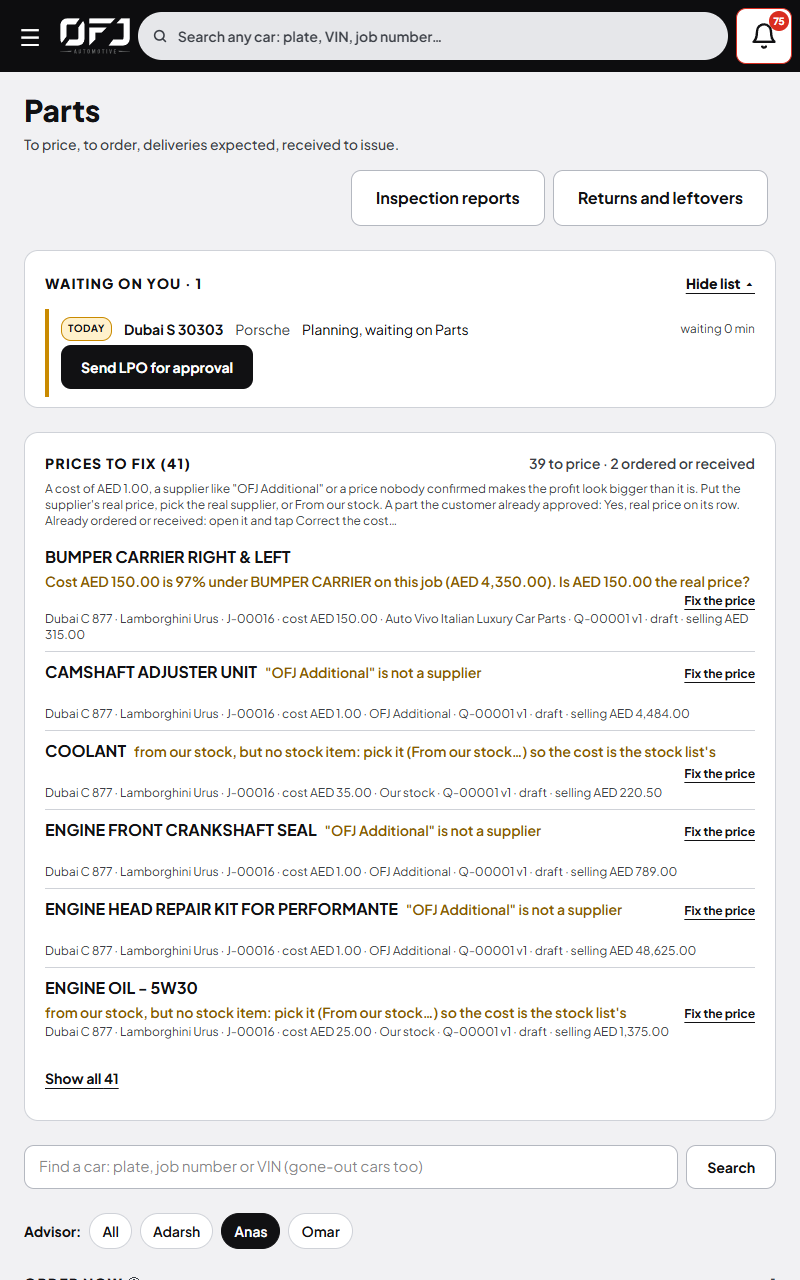
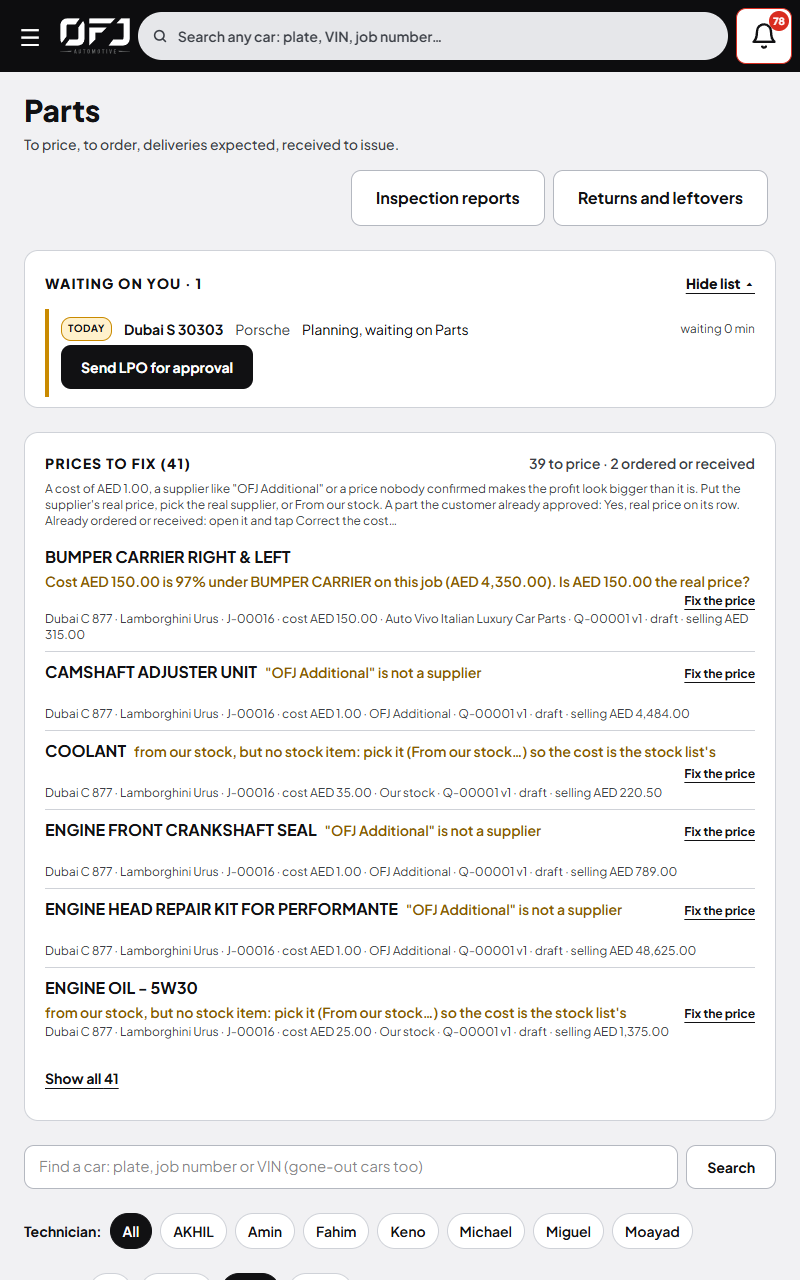
Wide-screen parts table: the part number column fits a 22-character number (found by test-f); queued test fixes: test-t to today's rules, test-c, test-g, test-f, test-s3-payreport; the old Send LPO steps use the tick-list helper; the simulation's own time cap for 25 paths; batch note and handover.

diff --git a/src/app/(app)/parts/[jobId]/PartsTable.tsx b/src/app/(app)/parts/[jobId]/PartsTable.tsx
@@ -133,7 +133,7 @@ type EstimateDesk = { id: string; number: string; preparing: boolean; /** Sent b
 // minimum on two lines went from 10rem to 9rem, the two-line Availability from 9.5rem to 9rem, Disc % from 3.25rem
 // to 3rem and the gaps from 6 to 4 px to pay for it (at 1366 the table had scrolled 29 px sideways, at 1920 7 px), so a
 // name like "AIR SUSPENSION STRUT" still wraps on two lines within the row.
-const GRID = "grid grid-cols-2 md:grid-cols-[minmax(9rem,14rem)_8.25rem_4.25rem_3rem_5.25rem_14rem_9rem_5rem_2.5rem] min-[110rem]:grid-cols-[minmax(12rem,16rem)_8.25rem_17.5rem_11.5rem_4.25rem_3.25rem_5.25rem_14rem_11rem_5rem_2.5rem] gap-x-1 gap-y-1 items-center";
+const GRID = "grid grid-cols-2 md:grid-cols-[minmax(9rem,14rem)_8.25rem_4.25rem_3rem_5.25rem_14rem_9rem_5rem_2.5rem] min-[110rem]:grid-cols-[minmax(10.5rem,14.5rem)_8.25rem_19rem_11.5rem_4.25rem_3.25rem_5.25rem_14rem_11rem_5rem_2.5rem] gap-x-1 gap-y-1 items-center";
 const SECOND_LINE = "col-span-2 md:col-span-4 md:order-2 min-[110rem]:col-span-1 min-[110rem]:order-none";
 const STATUS_LINE = "col-span-2 md:col-span-9 min-[110rem]:col-span-11 md:order-3";
 /** Money for the cost bar and the line totals. */

diff --git a/docs/status-8-nov.md b/docs/status-8-nov.md
@@ -1,0 +1,46 @@
+# Status – 8 November 2026
+
+From git log, `docs/handover.md`, `docs/waiting-for-apply.md` and the queue notes. Nothing was built, tested or changed for this answer.
+
+1. **LIVE** – ff1a7c8, 6 Nov (Section 1). The carry-over bell data fix was applied on 7 Nov (0716a52).
+2. **NEVER RECEIVED** – nothing in git or the notes for "send LPO for selected parts" or "repeated part numbers like 1234AA". Related, already live: a cost under AED 5 asks "Real price?" and blocks the LPO (2 Nov); Send LPO names unfinished lines (1 Nov).
+3. **NEVER RECEIVED** – an LPO is still approved whole and split by supplier afterwards; only refusing one line exists (1 Nov). Nothing gives a job with no advisor the quotation's advisor (the parts pages show "quotation by X", dca0ed5).
+4. **LIVE** – bb27363, 6 Nov (Section 2).
+5. **NEVER RECEIVED** – nothing for removing a wrong scan report or an Autel check when attaching. Related, live: Fix 1 (603ef5d, 4 Nov), Autel reports reach the technician's Step 1 with no duplicates.
+6. **LIVE** – c188ff3, 6 Nov (Section 4); migration applied 7 Nov (0716a52). Covers the payment link method, amount, payment date, advance/fee and one payment across several invoices.
+7. **NEVER RECEIVED** (this change) – the settlement date box exists since 27 Oct (c65b7ff) but still starts at today's date.
+8. **LIVE** – 42d7864, 6 Nov (Section 3).
+9. **PARTLY** – to the fils and the true read-back check are live (6e097ee, 6 Nov). LPO-00045-1 waits for your "Check again in Zoho" press. STL-00012: the bank took 2.25%, not the set link rate; that needs Network International's answer or a rate change from you.
+10. **PARTLY** – QR, no left cut (one label per PDF page, zero margins), Test label and printing tips are live (7409e5e, 6 Nov; first half 3655d16, 5 Nov). No separate self-check feature was found, only the automated test. Peter's test print is still to do.
+11. **LIVE** – 505f2ea, 6 Nov (Section 6).
+12. **NEVER RECEIVED** – the advisor's name is on the parts pages (dca0ed5, 6 Nov), not the technician's. The only parts bell to the technician is the 2-hour "not received" reminder (since 18 Oct).
+13. **NEVER RECEIVED** – returns, "credit note awaited" and the Zoho vendor credit are live since 3 Nov, but there are no PR- documents.
+14. **LIVE** – 89b2ad3, 6 Nov (Section 7); the How-to-address migration was applied 7 Nov.
+15. **LIVE** – 16bf17a, 6 Nov (Section 9); the lockdown migration was applied 7 Nov.
+16. **LIVE** – 603ef5d (Autel reports to the technician's Step 1; the mailbox is read with nobody signed in) and 0972039 (Print internal), both 4 Nov.
+17. **NEVER RECEIVED** – thumbnails still use Supabase image transformations (`src/lib/media-urls.ts`).
+18. **PARTLY** – the code items are live (14f6e33 and 9bad65d, 6 Nov; M15 ea90e8c, 7 Nov). L1 and L4 were applied 7 Nov; leaked-password protection went on 8 Nov with the passkeys. Left for people: H3's other half (Zoho time zone, Mathew), M9 (terminal IDs empty), M10 (one clearing account for card and link), M11 (LPO-00035-2 dated 2016), M12 (STL-00005 method/fee mismatch).
+19. **IN QUEUE** – part 1 is live (e854e09, 5 Nov). Part 2 waits for your Backblaze key ("key saved"). Nothing was run.
+
+**A. In the queue, not on your list:** only test fixes; the product is unaffected (test-t rewrite; stale old sections in test-c, test-g C and test-f C@1920; test-s3-payreport timing on this PC).
+Done and live, not on your list:
+- Login security upgrade (passkeys): 7fdac30, 8 Nov, on for you only.
+- Plate can be added: 3329ef2, 6 Nov.
+- Advisor on parts pages: dca0ed5, 6 Nov.
+- 5 Nov: supplier invoice edit (f59f4b9), enter price myself (f5cb259), resend for approval (bb44576), revise at the top (36db402), supplier amounts with VAT (255655a).
+
+**B. Built but not asked for / rolled back:** nothing rolled back. Nothing unasked beyond small supporting fixes found by tests (for example 47de76d). The notes commit c3101ec is not pushed yet, on purpose: Vercel's one-click rollback only reaches the previous version, which must stay the one from before the passkeys.
+
+**C. WAITING FOR APPLY:** nothing.
+
+**D. NEEDS OMAR:**
+1. Backblaze key, then reply "key saved".
+2. Mathew: set both Zoho organisations' time zone to Asia/Dubai.
+3. Zoho Books → Posted → the red LPO-00045-1 row → "Check again in Zoho".
+4. One real supplier payment through "Sync to Zoho", checked once in OFJ TEST.
+5. Passkeys: try your phone at an office PC, then Sign-ins → "Everyone in the passkey roles" → Save, and give staff the guide.
+6. Network International: why STL-00012's link payment cost 2.25%.
+7. Peter: print the Test label.
+8. Audit items for people: M9 to M12 (item 18).
+
+**E. This minute:** nothing is running. This status answer is the only work. Nothing more is queued until you send "key saved", switch passkeys on for everyone, or send a new task.

diff --git a/docs/handover.md b/docs/handover.md
@@ -1,14 +1,17 @@
-# Handover – 8 November 2026
-**Status:** the 9-section batch, the A/B status check and the rest of the audit are done and live; only the items below wait for you.
-**Live (6–7 Nov):** estimate carry-over · resend quote · parts desk edits after sending · supplier payments (on with apply #2) · Zoho to the fils · jobs sorting · small preview + greeting · part labels 50 × 25 · gate-in check · audit H3 code, M1, M3, M6–M8, M13–M15, L2, L3, L6, sim rule. A/B were already live (603ef5d, 0972039). Notes: `docs/*-6-nov-note.md`, `docs/audit-rest-6-nov-note.md`.
-**WAITING FOR APPLY:** nothing. The passkeys were applied on 8 Nov morning (push 7fdac30, migration, live password settings; backup `backups/2026-11-08T05-47-43`; check:live 33/33). Passkeys are ON FOR THE OWNER ONLY until he switches Team › Sign-ins to Everyone.
+# Handover – 8 November 2026 (night)
+
 **NEEDS OMAR:**
-1. Backblaze key → **"key saved"** (backups part 2).
-2. Mathew: set **both Zoho orgs' time zone to Asia/Dubai** (H3's other half).
-3. Zoho Books → Posted → red **LPO-00045-1** row → **Check again in Zoho** (re-posts 1,011.00 in OFJ TEST).
-4. Now that supplier payments are on: one real supplier payment through **Sync to Zoho**, checked once in OFJ TEST.
-5. Passkeys: try your phone at an office PC (Sign in with passkey), then Team › Sign-ins › Everyone › Save; give staff the guide (docs/passkey-staff-guide.md).
-6. Network International: why STL-00012's link payment cost **2.25%** (or change the link rate on Card settlements → Bank fees).
-7. Peter: print the **Test label**, follow `docs/part-labels-guide-for-peter.md`.
-**Assumption:** no title typed → greeted by first name ("Dear Dhia,"); a "How to address" changes it.
-**Left (tests only, product fine):** test-t rewrite; stale old sections in test-c (4), test-g C (bulk delete now asks the ending), test-f C@1920 (1); test-s3-payreport E1/H2/H3 timing on this PC.
+1. **Backup key copy:** `OFJ-BACKUP-KEY.txt` is on your Desktop (same key as GitHub, fingerprint ecfbe604). Put it in your password manager, print it for the safe, then delete the file.
+2. **Move the PC's 20 GB `backups/` folder off-site:** the Backblaze key is only in GitHub (unreadable). Either paste the three B2 values into `.env.local` as `B2_KEY_ID`, `B2_APP_KEY`, `B2_BUCKET` and reply "local key saved", or leave the folder on the PC.
+3. Read (clear) the three old "Off-site … FAILED: B2_KEY_ID is not set" bells; no new ones will come.
+4. Supabase dashboard → Usage → Image transformations: note the count on 9 Nov evening (should stay where it is).
+5. Reply **"apply"** for the WAITING FOR APPLY list below.
+6. From before: Mathew sets both Zoho orgs' time zone to Asia/Dubai; LPO-00045-1 "Check again in Zoho"; one real supplier payment through Sync to Zoho; passkeys for everyone; Network International on STL-00012 (now estimated at 2.25%); Peter's test label.
+
+**Live (8 Nov night):** off-site backups (database backup + restore test proven) · pre-made photo sizes (f3c07b2) · send LPO for selected parts (3b8a704) · settlement date with no default · approve each supplier separately · technician on parts pages · purchase returns (code; switches on with apply #5) · link fee worst case (code default; the stored setting moves with apply #4). Note: `docs/8-nov-batch-note.md`.
+
+**WAITING FOR APPLY** (`docs/waiting-for-apply.md`): #1 photo sizes backfill (1,330 photos, ~0.21 GB) · #2 parts-desk bells (J-00990, J-00016, J-00343) · #3 five missing advisors · #4 link fee setting 1.75 → 2.25 · #5 purchase returns table (backup first).
+
+**Queued next (owner's message of 8 Nov):** 1 softer whites, logo, small print · 2 "urgent" must mean urgent · 3 promised date on every approved job · 4 the bell only counts what is still open.
+
+**Tests:** layout clean, security passed, simulation 341/0, check:live 33/33; the queued test fixes are done. Backups: database copy, storage copy (1,995 files, 2.15 GB) and restore test all green.

diff --git a/docs/8-nov-batch-note.md b/docs/8-nov-batch-note.md
@@ -7,8 +7,8 @@
 - **Restore proven (TEST database only, its scratch schema):** the copy was downloaded from Backblaze, decrypted and
   restored – 118 tables, 259,764 rows, every count matches the dump. Against live now (read-only counts):
   jobs 52 / 52, invoices 24 / 24, payments 21 / 21.
-- **Storage copy:** started by hand at 17:12 UTC; see the handover for its result (photos, videos and PDFs, about
-  0.65 GB of photos plus the videos).
+- **Storage copy, run now: OK.** 1,995 files (photos, videos, PDFs), 2,152.5 MB, each encrypted, in Backblaze under
+  `storage/`. All three watch rows (nightly, weekly, monthly) are green.
 - **The encryption key's other copy:** there was one in an old Claude scratch folder (temporary, gets cleaned). It is
   now on your Desktop as **OFJ-BACKUP-KEY.txt** (the key is never printed in chat, git or logs). The restore test in
   GitHub printed the key's fingerprint `ecfbe604` (the first 8 characters of its SHA-256, not the key), and the
@@ -120,3 +120,17 @@ return or a fee puts the cost back (job or overhead). A credit to use is shown, 
 - Open jobs whose profit estimate goes DOWN (0.5% of the total; no open job has an unsettled link payment):
   J-00017 54.50 · J-00317 72.90 · J-00460 43.50 · J-00491 99.75 · J-00492 50.00 · J-00609 42.15 · J-00940 100.00 ·
   J-00975 71.50 · J-00977 27.50 · J-00980 37.50 · J-00990 33.08 · J-00991 105.00 – AED 737.38 in all.
+
+## End of batch
+
+- `npm run test:layout` (every page, every size, pop-ups, 130% text, the document check): clean; 50 document checks.
+- `npm run test:security`: all passed (`purchase_returns` is in the server-only list).
+- `npm run test:sim`: 341 checks, 0 failed (25 paths; the run's own time cap was raised from 55 to 150 minutes).
+- `npm run check:live` (read-only): 33 of 33.
+- Queued test fixes, done:
+  - test-t brought to today's rules: 56 of 57, and the last check's wording was fixed against the real text. The two checks about the owner's own services list now run only with CHECK_SERVICE_DATA.
+  - test-c 67 of 67 (waits for slow saves; today's VAT and heading words).
+  - test-g 44 of 44 (an ordered part with nothing arrived is now cancelled in the sweep, so the kept part is a received one).
+  - test-f 92 of 92. It found a real fault: a 22-character part number was cut at 1920 px, so the wide-screen part number column is now 19 rem (the name column 10.5 to 14.5 rem).
+  - test-s3-payreport 76 of 76 (its waits are three times longer on this PC).
+  - The other suites that pressed the old "Send LPO" button now use the new `sendLpo` helper.
